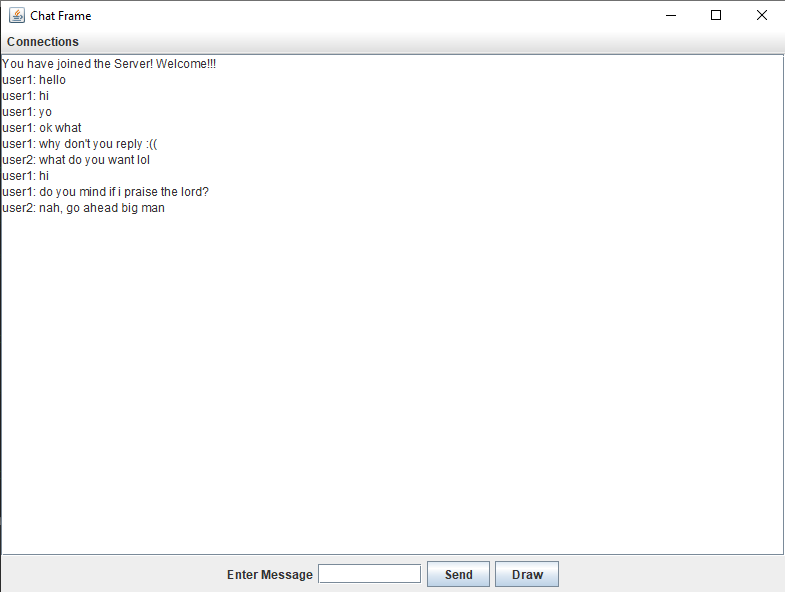
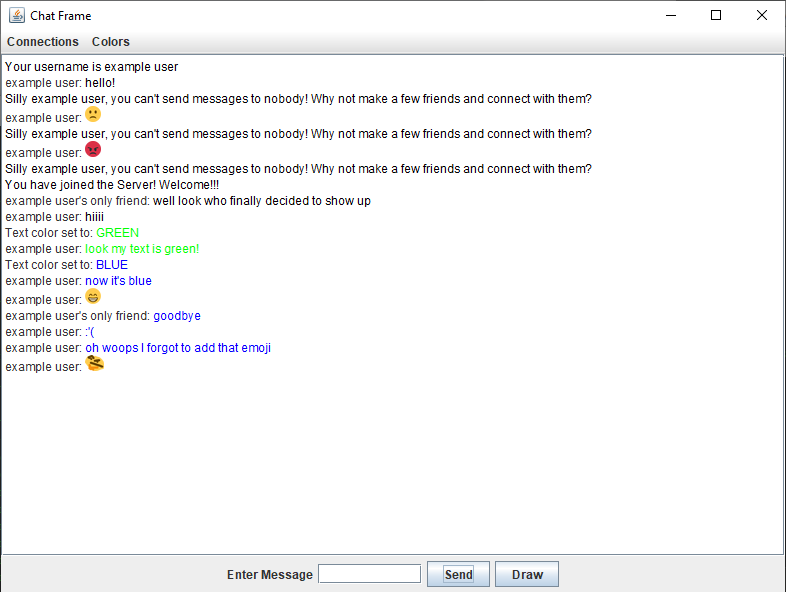
update ChatScreenshot.png

diff --git a/ChatGUI.java b/ChatGUI.java
@@ -318,7 +318,10 @@ public class ChatGUI extends JFrame implements Runnable, ActionListener, AutoClo
                     output.println(getName() + ": " + getTextInput());
                     textInput.setText("");
                 } catch(NullPointerException npe) {
-                    println("Silly " + getName() + ", you can't send messages to nobody!");
+                    println(getName() + ": " + getTextInput());
+                    textInput.setText("");
+                    println("Silly " + getName() + 
+                        ", you can't send messages to nobody! Why not make a few friends and connect with them?");
                 }
             }
             // textInput.setText("");

diff --git a/EmoteChanger.java b/EmoteChanger.java
@@ -11,9 +11,9 @@ import java.io.File;
 import java.io.IOException;
  
 public class EmoteChanger extends JTextPane {
-    String[] emoticons = {":)", ":D", ":(", ">:(", "<3", "-_-", ":P",
-    	":think:", ":thonk:", ":eggplant:", ":peach:", ":sweat:",
-    	"jeff", ":dab:"
+    String[] emoticons = {":)", ":D", ":(", ">:(", "<3", "-_-", 
+        ":P", ":think:", ":thonk:", ":eggplant:", ":peach:", 
+        ":sweat:", "jeff", ":dab:"
     	};
     /*static ImageIcon SMILE_IMG = createImage(":)");
     static ImageIcon ANGER_IMG = createImage(">:(");
